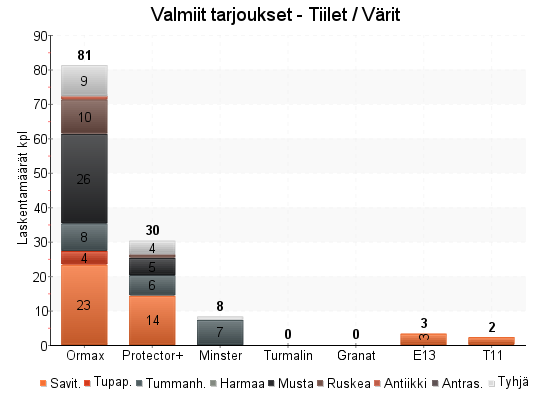
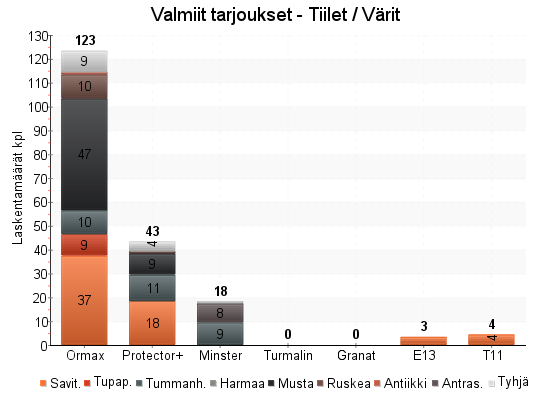
Changed statistics image creation to dynamic

diff --git a/js/script28.js b/js/script28.js
@@ -796,15 +796,7 @@ jQuery(document).ready(function ($) {
     function show_pdfs_tile_colour() {
         $('#chart_statistics_tiles_and_colour').css('font-weight', 'bold');
         $('#chart_statistics_tiles_and_colour').css('background', '#e6e6e6');
-
-        $.ajax({
-            type: "post",
-            url: "php/scripts/statistics/statistics_pdfs_tile_and_color.php",
-            data: "",
-            success: function (data) {
-                $('#chart_statistics_img_primary').attr("src", "php/scripts/statistics/pdfs_tile_colour.png?timestamp=" + new Date().getTime());
-            }
-        });
+        $('#chart_statistics_img_secondary').attr("src", "php/scripts/statistics/statistics_tile_and_color_chart.php");
     }
 
     $('#chart_statistics_delivery_map').click(function () {
@@ -816,21 +808,13 @@ jQuery(document).ready(function ($) {
     function show_pdfs_delivery_map() {
         $('#chart_statistics_delivery_map').css('font-weight', 'bold');
         $('#chart_statistics_delivery_map').css('background', '#e6e6e6');
-
-        $.ajax({
-            type: "post",
-            url: "php/scripts/statistics/statistics_delivery_map.php",
-            data: "",
-            success: function (data) {
-                $('#chart_statistics_img_secondary').attr("src", "php/scripts/statistics/pdfs_postal_area_chart.png?timestamp=" + new Date().getTime());
-                $('#chart_statistics_img_primary').attr("src", "php/scripts/statistics/pdfs_delivery_map.png?timestamp=" + new Date().getTime());
-            }
-        });
+        $('#chart_statistics_img_secondary').attr('src', '/php/scripts/statistics/statistics_postal_area_chart.php');
+        $('#chart_statistics_img_primary').attr('src', '/php/scripts/statistics/statistics_create_postal_area_map.php');
     }
 
     function hide_chart_tab_selection() {
         $('#chart_statistics_img_secondary').attr('src', 'img/blank.png');
-        $('#chart_statistics_img_primary').attr('src', 'img/loading.gif');
+        $('#chart_statistics_img_primary').attr('src', 'img/blank.png');
         $('#chart_statistics_tiles_and_colour').css('font-weight', 'normal');
         $('#chart_statistics_tiles_and_colour').css('background', 'none');
         $('#chart_statistics_delivery_map').css('font-weight', 'normal');

diff --git a/css/ormax_style19.css b/css/ormax_style19.css
@@ -1028,14 +1028,14 @@ thead th {
 
 #chart_statistics_img_area {
     min-height: 350px;
-    max-height: 550px;
+    max-height: 580px;
     border-top: 1px solid black;
     border-right: 1px solid black;
     border-bottom: 1px solid black;
 }
 
 #chart_statistics_img_area img {
-    max-height: 450px;
+    max-height: 480px;
 }
 
 #chart_statistics_tiles_and_colour, #chart_statistics_delivery_map {

diff --git a/php/scripts/statistics/statistics_postal_area_chart.php b/php/scripts/statistics/statistics_postal_area_chart.php
@@ -1,4 +1,6 @@
 <?php
+    include("statistics_delivery_map.php");    
+
     include("pChart/class/pData.class.php");
     include("pChart/class/pDraw.class.php");
     include("pChart/class/pImage.class.php");
@@ -64,20 +66,20 @@
     $pChart->setAxisName(0,"Kappalemäärä / postinumeroalue");
     $pChart->setAxisUnit(0,"");
 
-    $pChartPicture = new pImage(250,450,$pChart);
+    $pChartPicture = new pImage(260,480,$pChart);
     $Settings = array("R"=>255, "G"=>255, "B"=>255);
-    $pChartPicture->drawFilledRectangle(0,0,250,450,$Settings);
+    $pChartPicture->drawFilledRectangle(0,0,250,470,$Settings);
 
     $pChartPicture->setShadow(TRUE,array("X"=>1,"Y"=>1,"R"=>50,"G"=>50,"B"=>50,"Alpha"=>20));
 
     $pChartPicture->setFontProperties(array("FontName"=>"pChart/fonts/arial.ttf","FontSize"=>14));
     $TextSettings = array("Align"=>TEXT_ALIGN_TOPMIDDLE
     , "R"=>0, "G"=>0, "B"=>0);
-    $pChartPicture->drawText(125,5,"Valmiit tarjoukset",$TextSettings);
-    $pChartPicture->drawText(125,22,"postinumeroalueittain",$TextSettings);
+    $pChartPicture->drawText(130,5,"Valmiit tarjoukset",$TextSettings);
+    $pChartPicture->drawText(130,22,"postinumeroalueittain",$TextSettings);
 
     $pChartPicture->setShadow(FALSE);
-    $pChartPicture->setGraphArea(40,70,243,440);
+    $pChartPicture->setGraphArea(40,80,253,470);
     $pChartPicture->setFontProperties(array("R"=>0,"G"=>0,"B"=>0,"FontName"=>"pChart/fonts/arial.ttf","FontSize"=>8));
 
     $Settings = array("Pos"=>SCALE_POS_TOPBOTTOM
@@ -91,6 +93,6 @@
     $Config = array("DisplayValues"=>1, "Gradient"=>1, "AroundZero"=>1);
     $pChartPicture->drawBarChart($Config);
 
-    $pChartPicture->render("pdfs_postal_area_chart.png");
+    $pChartPicture->autoOutput("pdfs_postal_area_chart.png");
 ?>
 

diff --git a/php/scripts/statistics/statistics_delivery_map.php b/php/scripts/statistics/statistics_delivery_map.php
@@ -5,7 +5,7 @@
     
     $color_range = array(200, 20, 0, 250, 250, 250);
 
-    $result_total_count = mysqli_query($con, "SELECT COUNT(postinumero) FROM toimituskulu_laskennat") or die(mysqli_error($con));
+    $result_total_count = mysqli_query($con, "SELECT COUNT(postinumero) FROM valmiit_laskennat") or die(mysqli_error($con));
     $total_count_array = mysqli_fetch_array($result_total_count);
     $total_count = $total_count_array[0];
     
@@ -67,7 +67,7 @@
     $min_max_counts = get_min_max_counts($area_results, $total_count);
 
     function get_area_results($con, $lowerbound, $upperbound, $total_count) {
-        $query = "SELECT COUNT(postinumero) FROM toimituskulu_laskennat WHERE postinumero BETWEEN $lowerbound AND $upperbound";
+        $query = "SELECT COUNT(postinumero) FROM valmiit_laskennat WHERE postinumero BETWEEN $lowerbound AND $upperbound";
         
         $result = mysqli_query($con, $query) or die(mysqli_error($con));
         $area_count = mysqli_fetch_array($result);
@@ -90,8 +90,4 @@
         }
         return array($temp_min, $temp_max);
     }
-
-    include ("statistics_create_postal_area_map.php");
-
-    include ("statistics_postal_area_chart.php");
 ?>

diff --git a/php/scripts/statistics/statistics_tile_and_color_chart.php b/php/scripts/statistics/statistics_tile_and_color_chart.php
@@ -1,4 +1,6 @@
 <?php
+    include("statistics_pdfs_tile_and_color.php");    
+
     include("pChart/class/pData.class.php");
     include("pChart/class/pDraw.class.php");
     include("pChart/class/pImage.class.php");
@@ -163,7 +165,7 @@
     $pChartPicture->setFontProperties(array("R"=>0,"G"=>0,"B"=>0,"FontName"=>"pChart/fonts/arialbd.ttf","FontSize"=>10));
     $pChartPicture->drawBarChart(array("DisplayValues" => TRUE, "DisplayColor"=>array('R'=>0, 'G'=>0, 'B'=>0)));
 
-    $pChartPicture->render("pdfs_tile_colour.png");
+    $pChartPicture->autoOutput("pdfs_tile_colour.png");
 
     function get_tile_total_count($tile_colour_results, $tile) {
         $tile_total = 0;

diff --git a/php/scripts/statistics/statistics_create_postal_area_map.php b/php/scripts/statistics/statistics_create_postal_area_map.php
@@ -1,4 +1,6 @@
 <?php
+    include("statistics_delivery_map.php");       
+
     $area_00_10 = get_00_10_area();
     $area_11_14 = get_11_14_area();
     $area_15_19 = get_15_19_area();
@@ -122,7 +124,9 @@
     print_city($map, array(290,450), 'Kajaani', array(310,450), $text_colour, $text_size);
     print_city($map, array(230,260), 'Rovaniemi', array(220,240), $text_colour, $text_size);
 
-    imagepng($map, 'pdfs_delivery_map.png');
+    header('Content-Type: image/png');
+
+    imagepng($map);
     imagedestroy($map);
     
     function fill_postal_area($image, $postal_area, $area_colour) {

diff --git a/php/header.php b/php/header.php
@@ -1,5 +1,7 @@
 <?php
-    session_start();    
+    session_start();
+    
+    $year = date("Y");    
 
     if ($tile == 'protector') {
         $tile_selected = 'Protector-betonikattotiili';
@@ -43,7 +45,7 @@
             </tr>
             <tr>
                 <td>
-                    <h1>Hinnastolaskenta 2015</h1>
+                    <h1>Hinnastolaskenta <?php echo $year; ?></h1>
                     <div id="tile_selection" class="dropdown">
                         <a href="#">
                             <?php echo $tile_selected; ?>

diff --git a/php/scripts/statistics/statistics_pdfs_tile_and_color.php b/php/scripts/statistics/statistics_pdfs_tile_and_color.php
@@ -21,8 +21,6 @@
 
     $tile_colour_results = get_tile_statistics($con, $tiles, $colours);
 
-    include("statistics_tile_and_color_chart.php");
-
     function get_tile_statistics($con, $tiles, $colours) {
         $tiles_colours = array();
 
